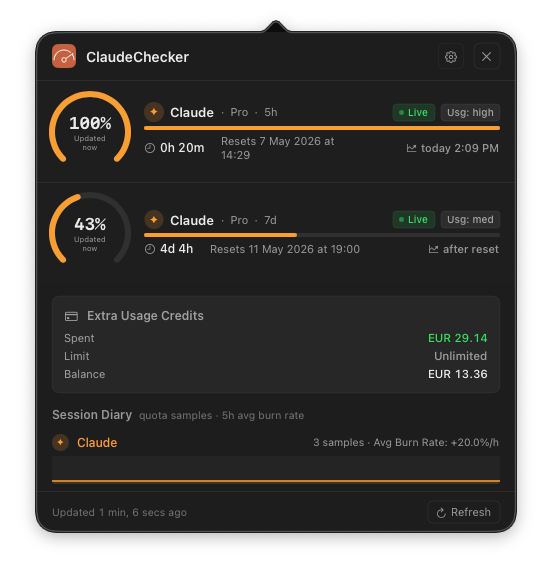
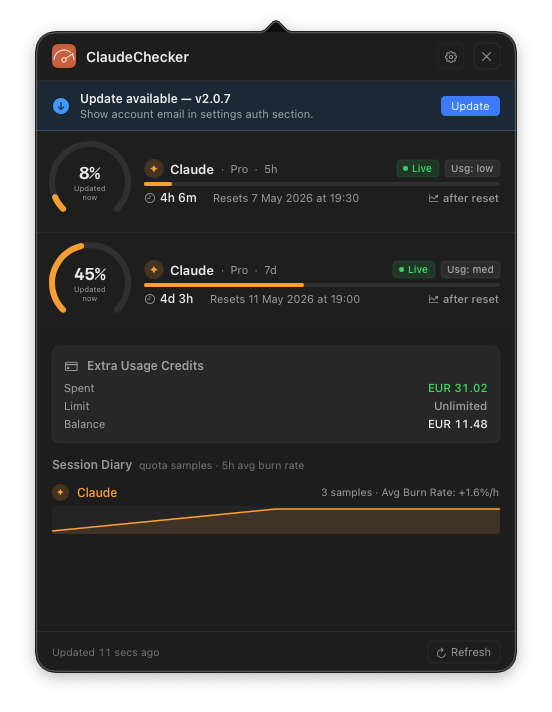
v2.0.8 — Fix data source endpoints in settings, update screenshots

diff --git a/ClaudeChecker/ContentView.swift b/ClaudeChecker/ContentView.swift
@@ -735,8 +735,10 @@ struct SettingsView: View {
                     .font(.system(size: 12, weight: .medium))
                     .foregroundColor(.secondary)
                 VStack(alignment: .leading, spacing: 2) {
+                    Text("• /api/bootstrap")
                     Text("• /api/organizations/{id}/usage")
-                    Text("• /api/organizations/{id}/rate_limits")
+                    Text("• /api/organizations/{id}/overage_spend_limit")
+                    Text("• /api/organizations/{id}/prepaid/credits")
                 }
                 .font(.system(size: 11, design: .monospaced))
                 .foregroundColor(Color.secondary.opacity(0.7))

diff --git a/README.md b/README.md
@@ -8,7 +8,7 @@
 
 [![macOS](https://img.shields.io/badge/macOS-13.0+-000000?style=flat&logo=apple&logoColor=white)](https://www.apple.com/macos/)
 [![Swift](https://img.shields.io/badge/Swift-5.9-F05138?style=flat&logo=swift&logoColor=white)](https://swift.org)
-[![Version](https://img.shields.io/badge/version-2.0.7-orange?style=flat)](https://github.com/superdooper86/claudechecker/releases)
+[![Version](https://img.shields.io/badge/version-2.0.8-orange?style=flat)](https://github.com/superdooper86/claudechecker/releases)
 [![License](https://img.shields.io/badge/license-MIT-blue?style=flat)](LICENSE)
 
 </div>